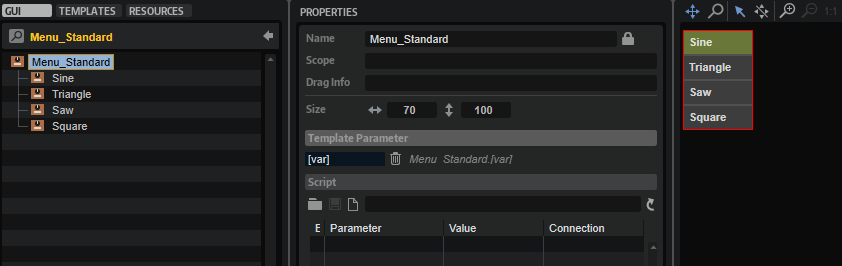
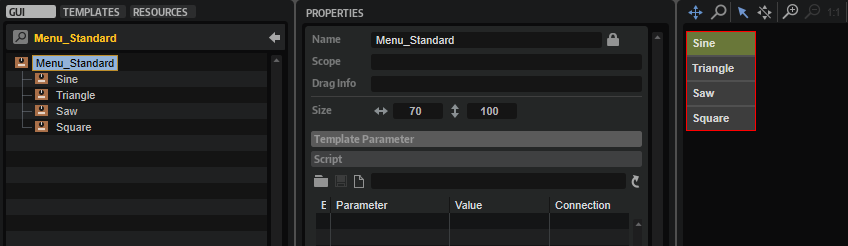
Improved descriptions and corrected screenshot

Changed region(s): [[0.0, 0.0, 1.0, 1.0], [0.5249, 0.7967, 0.5867, 0.8821]]

diff --git a/src/HALion-Tutorials-Guidelines/pages/Custom-Multi-Level-Menus-II.md b/src/HALion-Tutorials-Guidelines/pages/Custom-Multi-Level-Menus-II.md
@@ -10,7 +10,7 @@
 
 ---
 
-This how-to describes another way to build custom popup menus. The solution shown can be used to build single-level or multi-level popup menus.
+This how-to describes another way to build custom popup menus. The solution shown can be used to build single-level or multi-level popup menus. An example of a single-level popup menu can be found in [Working with Exported Variables](./Working-with-Exported-Variables.md).
 
 {{#include ./_Excerpts.md:custom-multi-level-menus}}
 
@@ -79,7 +79,7 @@ The Selector template contains the elements which are required to open the [Root
 
 ### RootMenu
 
-The RootMenu template displays when clicking the Selector on the macro page. It defines the menu entries and opens the assigned [Submenu](#submenu) templates when navigating through the menu. 
+The RootMenu template displays when clicking the selector on the macro page. It defines the menu entries and opens the assigned [Submenu](#submenu) templates when navigating through the menu. 
 
 ![Custom Multi-Level Menus II RootMenu](../images/Custom-Multi-Level-Menus-II-RootMenu.png)
 
@@ -87,7 +87,7 @@ The RootMenu template displays when clicking the Selector on the macro page. It 
 
 |Variable|Description|Type|Range|
 |:-|:-|:-|:-|
-|**submenus**|This Popup List variable is required to assign the [Submenu](#submenu) templates to the entries of the RootMenu template. The entries in the Popup List correspond to the names of the [Submenu](#submenu) templates to be opened when navigating through the menu.|String|Menu_Standard, Menu_Sync, Menu_Crossmod, Menu_XOR|
+|**submenus**|This Popup List variable is required to assign the [Submenu](#submenu) templates to the entries of the RootMenu template. The entries in the Popup List correspond to the names of the [Submenu](#submenu) templates to be opened when navigating through the menu. The Popup List variable opens the assigned [Submenu](#submenu) template, when it receives the OnValue of the corresponding [RootMenuEntry](#rootmenuentry) template.|String|Menu_Standard, Menu_Sync, Menu_Crossmod, Menu_XOR|
 
 ![Custom Multi-Level Menus II PopupListVariable](../images/Custom-Multi-Level-Menus-II-PopupListVar.png)
 
@@ -95,7 +95,7 @@ The RootMenu template displays when clicking the Selector on the macro page. It 
 
 |Element|Description|
 |:-|:-|
-|**Standard, Sync, Crossmod, XOR**|These represent the four entries of the menu. They use the [RootMenuEntry](#rootmenuentry) template which defines the look and functionality of an entry. The Value parameter of all [RootMenuEntry](#rootmenuentry) templates must be set to ``@submenus``. The OnValue parameters of the specific [RootMenuEntry](#rootmenuentry) templates must be set to the index of the corresponding entry in the Popup List. The Label parameter defines the name of the entry to be displayed.|
+|**Standard, Sync, Crossmod, XOR**|These represent the four entries of the menu. They use the [RootMenuEntry](#rootmenuentry) template which defines the look and functionality of an entry. The Value parameter of all [RootMenuEntry](#rootmenuentry) templates must be set to ``@submenus``. The OnValue parameters of the specific [RootMenuEntry](#rootmenuentry) templates must be set to the index of the corresponding entry in the Popup List variable. The OnValue will be sent to the Value parameter which is sent to the ``submenu`` Popup List variable which opens the corresponding [RootMenuEntry](#rootmenuentry) template. The Label parameter defines the name of the entry to be displayed in the menu.|
 
 ### RootMenuEntry
 
@@ -108,17 +108,17 @@ This template represents one entry in the [RootMenu](#rootmenu) template. It con
 |Element|Description|
 |:-|:-|
 |**Label**|A [Label](../../HALion-Macro-Page/pages/Label.md) control to display the name of the menu entry. Its Text property is exported as 'Label'. This allows you to name the template differently for each instance.|
-|**Switch**|A [Switch](../../HALion-Macro-Page/pages/Switch.md) control with hover exclusive mode which sends its OnValue when the mouse is above the menu entry. The OnValue and Value properties are exported to be set by each instance of the template.|
+|**Switch**|A [Switch](../../HALion-Macro-Page/pages/Switch.md) control with hover exclusive mode which sends its OnValue when the mouse is above the menu entry. The OnValue and Value properties are exported to be set by each instance of the template. See [RootMenu](#rootmenu) for details.|
 
 ### Submenu
 
-There are four submenu templates in the Template List: Menu_Standard, Menu_Sync, Menu_Crossmod, and Menu_XOR. Each Submenu template contains four MenuEntry templates that define the entries of the submenu.
+There are four submenu templates in the Template List: Menu_Standard, Menu_Sync, Menu_Crossmod, and Menu_XOR. Each Submenu template contains four [MenuEntry](#menuentry) templates that define the entries of the submenu.
 
 ![Custom Multi-Level Menus II Menu_Standard](../images/Custom-Multi-Level-Menus-II-Menu_Standard.png)
 
 |Element|Description|
 |:-|:-|
-|**Sine, Triangle,Saw, Square**|These represent the four entries of the submenu. They use the [MenuEntry](#menuentry) template which defines the look and functionality of an entry. The OnValue parameter of each [MenuEntry](#rootmenuentry) template must be set to the corresponding value of the engine parameter it selects. This value will be sent to the `sel` variable. See [MenuEntry](#rootmenuentry) and [Selector/UI Variables](#ui-variables) for details. The Label parameter defines the name of the entry to be displayed.|
+|**Sine, Triangle,Saw, Square**|These represent the four entries of the submenu. They use the [MenuEntry](#menuentry) template which defines the look and functionality of an entry. The OnValue parameter of each [MenuEntry](#rootmenuentry) template must be set to the corresponding value of the engine parameter it selects. This value will be sent to the `sel` variable. See [MenuEntry](#rootmenuentry) and [Selector/UI Variables](#ui-variables) for details. The Label parameter defines the name of the entry to be displayed in the menu.|
 
 ### MenuEntry
 
@@ -131,4 +131,4 @@ This template represents one entry in the [Submenu](#submenu) template. It consi
 |Element|Description|
 |:-|:-|
 |**Label**|A [Label](../../HALion-Macro-Page/pages/Label.md) control to display the name of the menu entry. Its Text property is exported as 'Label'. This allows you to name the template differently for each instance.|
-|**Switch**|A [Switch](../../HALion-Macro-Page/pages/Switch.md) control with hover exclusive mode which sends its OnValue when the mouse is above the menu entry. The OnValue property is exported to be set by each instance of the template. The Value property must be set to `@sel`, the [UI variable](#ui-variables) of the [Selector](#selector) template. Through this the currently selected value of the connected engine parameter will be displayed by the [Selector](#selector) template.|
+|**Switch**|A [Switch](../../HALion-Macro-Page/pages/Switch.md) control with exclusive mode. The OnValue property is exported to be set by each instance of the template. See [Submenu](#submenu) for details. The Value property must be set to `@sel`, the [UI variable](#ui-variables) of the [Selector](#selector) template. the OnValue will be sent to the Value parameter which is sent to the ``sel`` variable. Through this the currently selected value of the connected engine parameter will be sent to the [Selector](#selector) template and the [Text](../../HALion-Macro-Page/pages/Text.md) control within the [Selector](#selector) template shows the display string of the engine parameter.|
